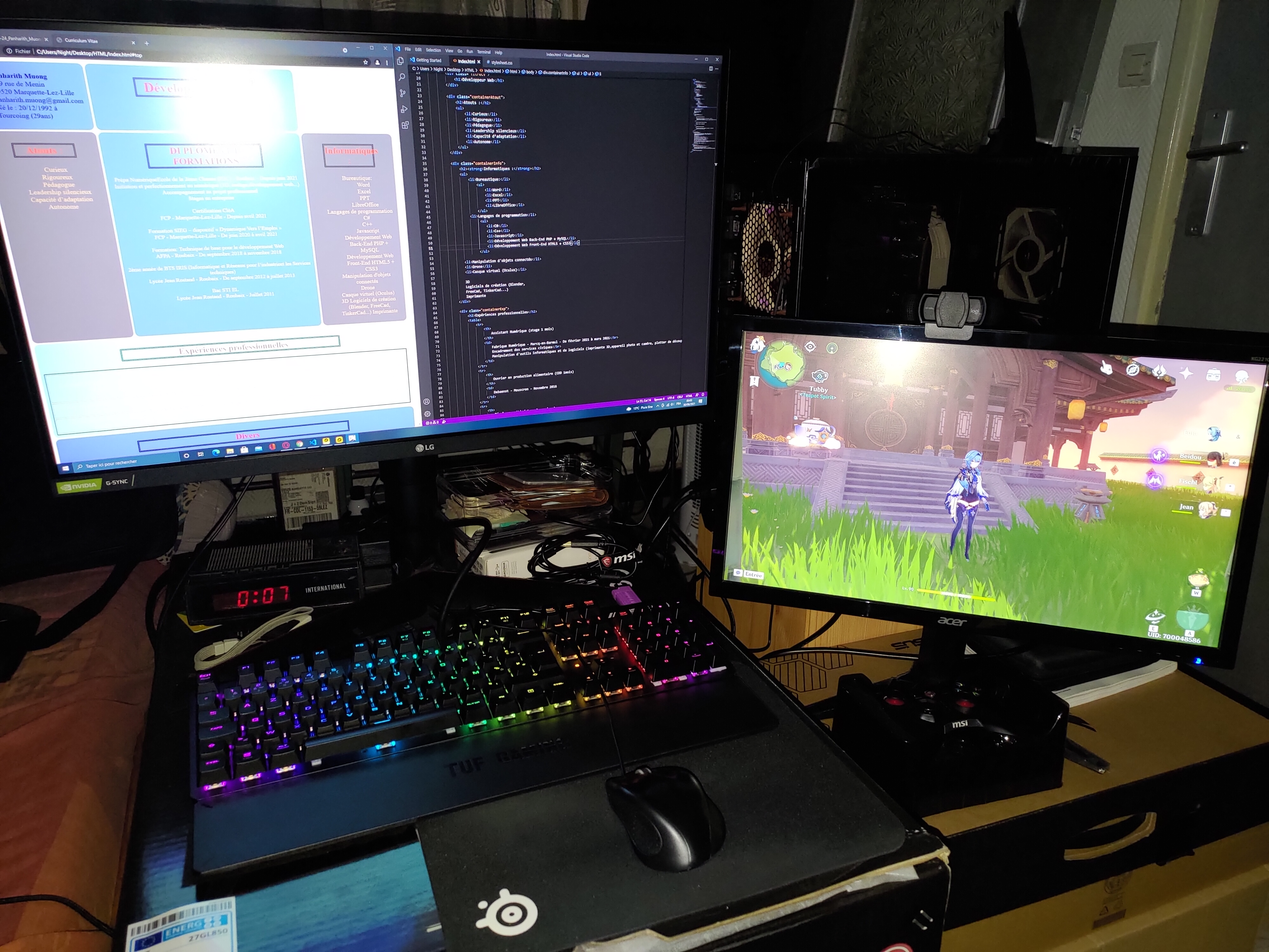
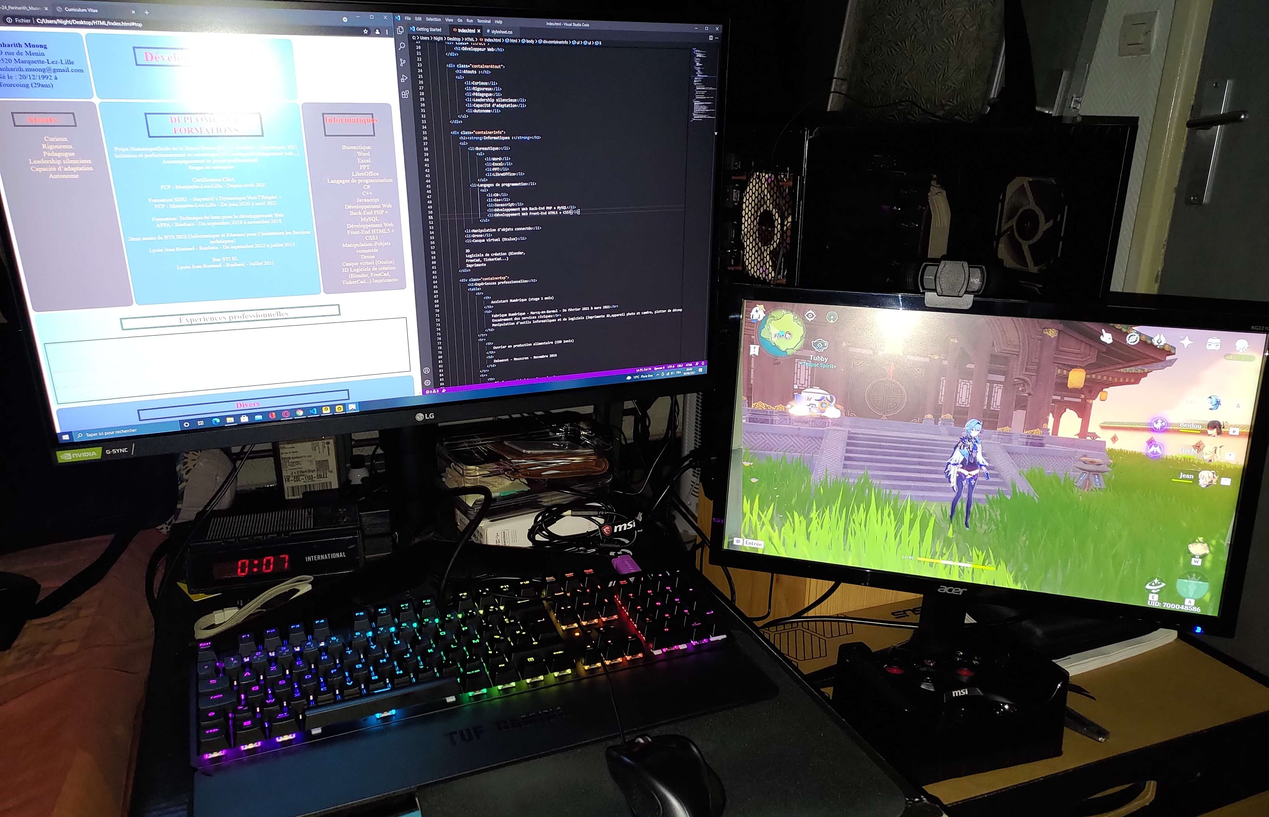
media size

diff --git a/CSS/style.css b/CSS/style.css
@@ -129,9 +129,27 @@ table, tr, td{
     width: 100%;
 }
 
+
+
+/* Section styles */
+
 header img{
-    max-height:400px;
+    max-height:500px;
     width: 100%;
+}
+
+#menu a{
+    margin-right: auto;
+    padding-left: 10%;
+    padding-right: 10%;
+    border-radius: 15px;
+}
+
+#menu a:hover{
+    margin-right: auto;
+    background-color: brown;
+    padding-left: 10%;
+    padding-right: 10%;
 }
 
 nav div{
@@ -139,10 +157,6 @@ nav div{
     flex-direction: row;
     background-color:indianred;
     border-style: groove;
-}
-
-#menu a{
-    margin-right: auto;
 }
 
 footer{
@@ -155,6 +169,8 @@ footer{
 footer a{
     margin-top: 18px;
 }
+
+/* End section styles */
 
 button{
     background-color: rgb(211, 210, 210);
